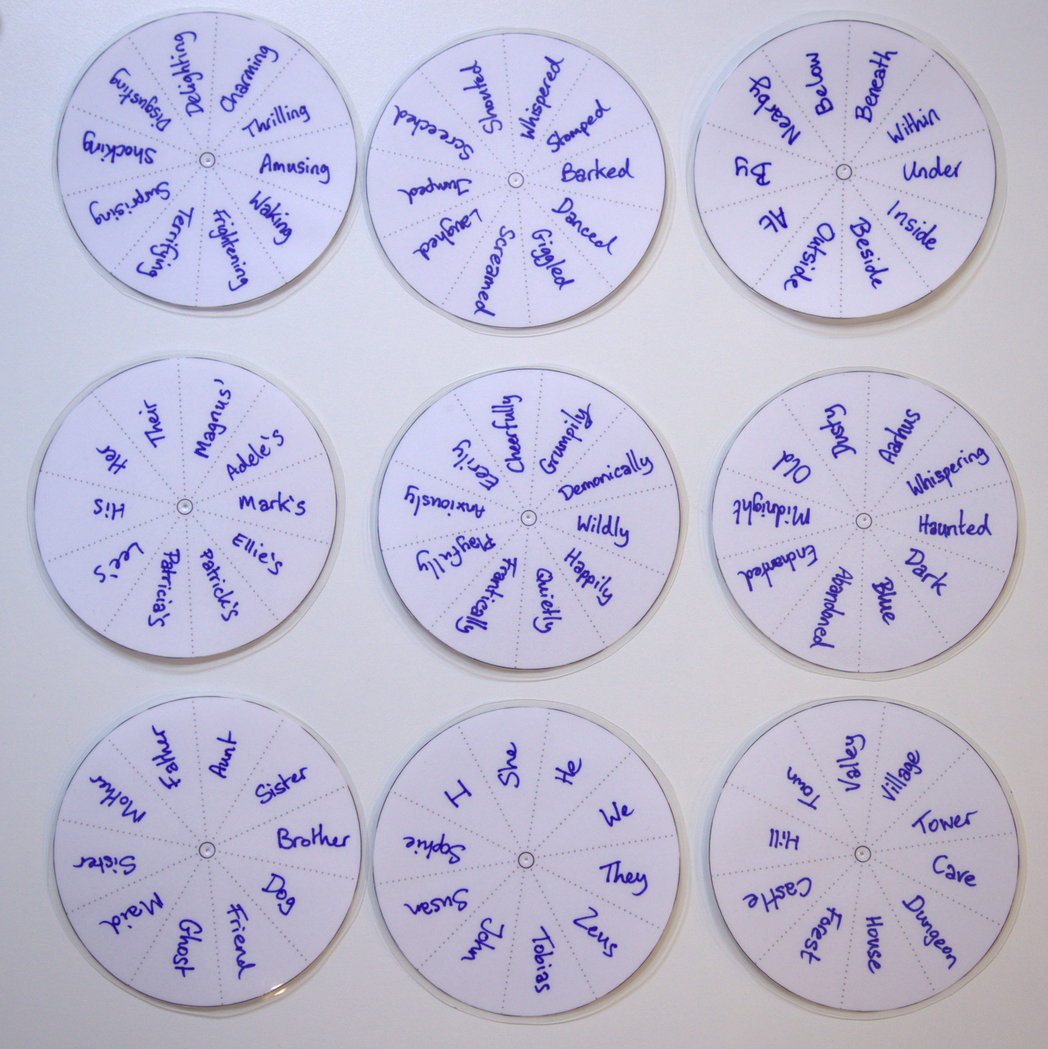
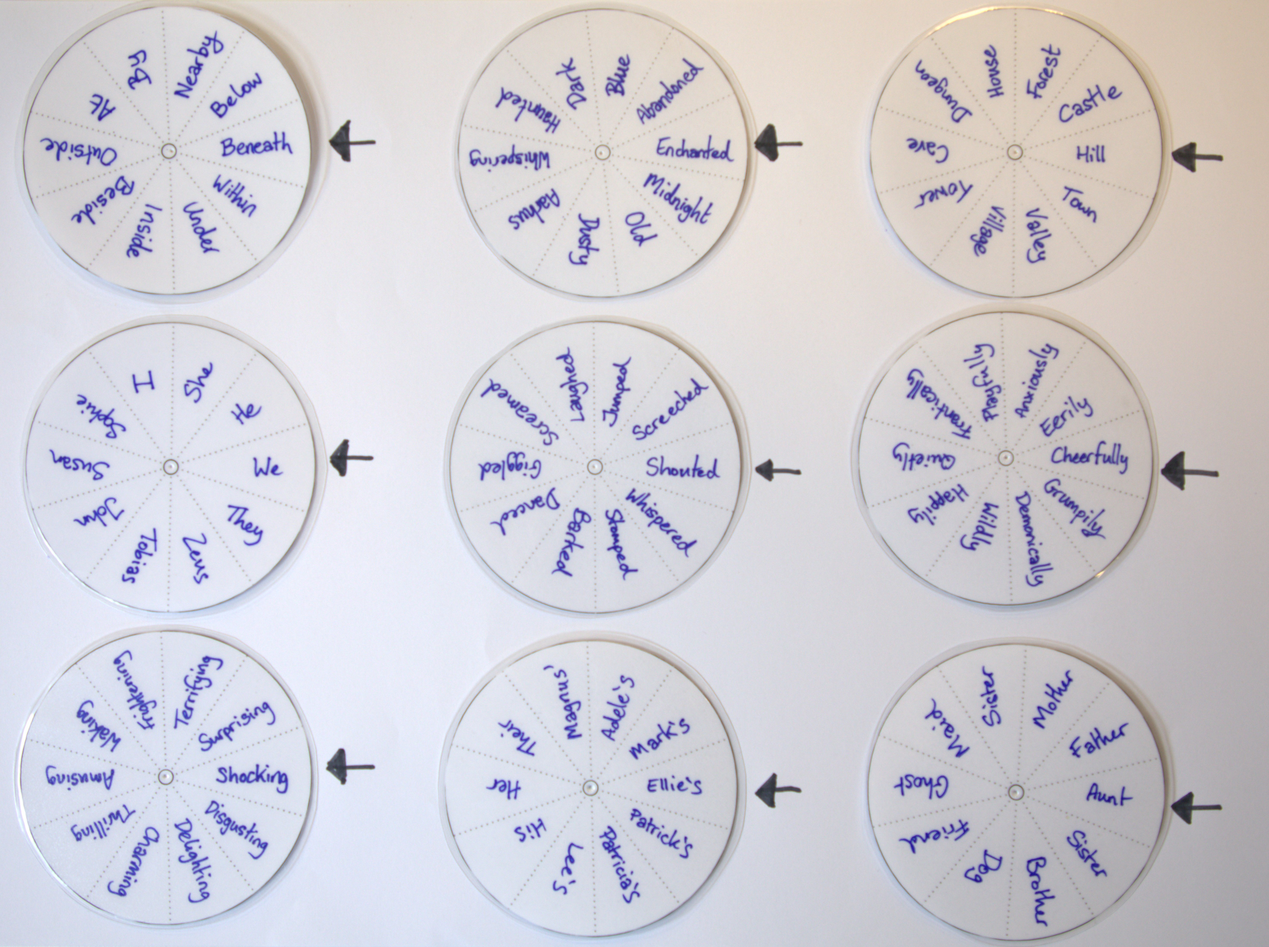
Final texts and new Once Upon a billion image

diff --git a/src/i18n/index.js b/src/i18n/index.js
@@ -220,15 +220,18 @@ const messages = {
       "Minimum number of times a word should appear to be included",
     hourOfAILink: "Hour of AI",
     hourOfAI: {
-      hourOfAITitle: "Build your own language model from paper",
+      hourOfAITitle: "Build Your Own Language Model From Paper",
+      surveyTitle: "These activities were developed with love through research",
+      surveyText:
+        "... And it would be a massive help to us in continuing our research if you would be interested in taking a short questionnaire!<ul><li>Link to teacher pre-lesson questionnaire (5 mins)</li><li>Link to teacher post-lesson questionnaire (5 mins)</li><li>Link to a questionnaire you can share with students pre-lesson (2 mins)</li><li>Link to a questionnaire you can share with students post-lesson (2 mins)</li></ul>",
       ages: "Ages 10-16",
       teachingPoint: "Teaching points",
       acks: 'These activities are developed at <a href="https://cctd.au.dk" target="_blank">the Center for Computational Thinking and Design at Aarhus University</a> in collaboration with the <a href="https://www.tekforstaa.dk" target="_blank">Research Center for Technology Comprehension</a>, contact us here: <a href="mailto:luke@cs.au.dk">luke@cs.au.dk</a><br><br><a href="https://hourofai.org" target="_blank">The Hour of AI</a> is a global campaign from <a href="https://csforall.org" target="_blank">CSforALL</a>, in collaboration with <a href="https://code.org" target="_blank">Code.org</a>. Take part in <a href="https://csedweek.org" target="_blank">CS Ed Week</a>!',
-      questions: "Questions to ask students",
+      questions: "Questions you can ask students",
       intro:
-        "<b>Invite your students to build their own sentence generator from paper. Students get a hands-on experience seeing how text becomes data and how this data becomes an AI model. Through this, they should learn that AI systems use data to make decisions or predictions, in this case generating text by predicting the words in a sentence</b><br><br>In this lesson the students start by writing sentences about themselves, in groups collect their sentences to datasets, and from these datasets create a simple sentence generation model. This is a very open exercise, where you can let the students explore and reflect on the steps independently, and we also provide some reflection questions to help you structure some reflections on how computers can generate text. With this lesson we aim to give them a hands-on experience and sense that they can be part of creating technology like text generation systems, through a simple paper-based example. A lesson plan summarising the content on this page is available here: [TODO], or alternatively you can print this page.",
+        '<b>Invite your students to build their own sentence generator from paper. Students get a hands-on experience seeing how text becomes data and how this data becomes an AI model. Through this, your students learn that AI systems use data to make decisions or predictions, in this case generating text by predicting the words in a sentence</b><br><br>In this lesson the students start by writing sentences about themselves, in groups collect their sentences to datasets, and from these datasets create a simple sentence generation model. This is a very open exercise, where you can let the students explore and reflect on the steps independently, and we also provide reflection questions to help you structure discussion on how computers can generate text. With this lesson we aim to give them a hands-on experience and sense that they can be part of creating technology like text generation systems, through a simple paper-based example.<br><br>We present the activity in steps which the students should follow, alongside teaching points and tips for the step, and questions you can ask to get students to reflect. <a href="https://docs.google.com/document/d/1XDV2fF8GeeJqHnkGKSHzRrmT0tnbB4MxfIw0a7i4720/edit?usp=sharing" target="_blank">A lesson plan summarising the content on this page is available here</a>, or alternatively you can print this page.',
       whatYouNeed:
-        'Before getting started, read the activity steps below. You can do this exercise with only blank pieces of paper! But, we have provided <a href="https://drive.google.com/file/d/1g0yrUjSlLW2x-ilAPSOxN2mFeggisYWh/view?usp=sharing" target="_blank">a template for the students to write their sentences on in step 1</a> [Print one copy per 12 students]; and <a href="https://drive.google.com/file/d/1GyLYVv1v0kkl8hay1X_GdnYpRvv-SrZ0/view?usp=sharing" target="_blank">a template for paper pie charts to visualise their dataset in the optional step 5</a> [Print one copy per group]. When they should write the sentences down in step 6, you could make a worksheet for reflection either on the model, or some subject -  here are examples/inspiration for <a href="https://drive.google.com/file/d/1Dw8oK5EXz3JpQ-2ek3JcNKnSJkFoo3zh/view?usp=sharing" target="_blank">language subjects</a> and <a href="https://drive.google.com/file/d/1gw5-MWAP-Z_92y9njckY4etJjCqsEiBL/view?usp=sharing" target="_blank">mathematics</a>.',
+        'Before getting started, read the activity steps below. We have provided:<ul><li>A template for the students to write their sentences on in Step 1 [<a href="https://drive.google.com/file/d/1g0yrUjSlLW2x-ilAPSOxN2mFeggisYWh/view?usp=sharing" target="_blank">Print and cut one copy per 12 students</a>]</li><li>A template for paper pie charts to visualise their dataset in the optional Step 5 [<a href="https://drive.google.com/file/d/1GyLYVv1v0kkl8hay1X_GdnYpRvv-SrZ0/view?usp=sharing" target="_blank">Print one copy per group</a>]</li></ul>When they should write down their sentences in step 6, you could choose to make a worksheet for reflection either on the model, or on the sentences from a subject perspective. Here are examples/inspiration for <a href="https://drive.google.com/file/d/1Dw8oK5EXz3JpQ-2ek3JcNKnSJkFoo3zh/view?usp=sharing" target="_blank">language subjects</a> and <a href="https://drive.google.com/file/d/1gw5-MWAP-Z_92y9njckY4etJjCqsEiBL/view?usp=sharing" target="_blank">mathematics</a>.<br><br>The templates above are recommended but optional - you can do this exercise with only blank pieces of paper!',
       step: "Step",
       learningOutcomes:
         "At the end of this lesson, students should be able to reflect on how text can become data (ripping it, creating piles), and how this data can be used to create models which can generate/predict new data. It may be that they understand language models as probabilistic systems, which do not generate *the* answer, but randomly generate *an* answer based on existing input and data.",
@@ -236,7 +239,7 @@ const messages = {
         {
           text: 'Each student writes a four-word sentence about themselves on a piece of paper. If using <a href="https://drive.google.com/file/d/1g0yrUjSlLW2x-ilAPSOxN2mFeggisYWh/view?usp=sharing" target="_blank">the template</a>, students should write the first word in the red box.',
           teachingPoint:
-            "The later steps where we create a model based on this data, in our experience, work best if the sentences end up quite similar, so we ideally want them to be simply structured and using similar words. This happens somewhat automatically when we ask them to write about themselves (the majority write I as the first word and follow this with a verb such as love). You can also further influence the similarities of the sentences, by giving examples: 'I love playing football' and 'I like to swim', or you could specify that the stucture should be <noun> <verb> <adjective> <noun>, but this is not necessary.",
+            "Steps 3-5 work best if the sentences end up quite similar, so we ideally want them to be simply structured and using similar words.<br><br>This happens somewhat automatically when we ask them to write about themselves (the majority write I as the first word and follow this with a verb such as love).<br><br>You can also further influence the similarities of the sentences, by giving examples: 'I love playing football' and 'I like to swim', or you could specify that the stucture should be noun-verb-adjective-noun, but this is not necessary.",
           questions: "",
           imageLink: "images/write-slip.jpg",
         },
@@ -244,7 +247,7 @@ const messages = {
           text: "The sentence should be ripped into individual words.",
           teachingPoint: "",
           questions:
-            "<ul><li><b>Could a computer split words up like we can?</b> Usually we train a model to figure this out, but a simple method can be to split sentences by spaces and punctuation.</li><li><b>What makes something a word? Should “football” be ripped into two words or is it one?</b> This can be interesting to discuss for language teachers, as it hits something fundamental in syntax and word origins and can be different in different languages.</li></ul>",
+            "<ul><li><b>Could a computer split words up like we can?</b> Sometimes, but they can't do it naturally like we learn to do! Usually we train a machine-learning model to figure this out, but a simple method can be to split sentences by spaces and punctuation.</li><li><b>What makes something a word? Should “football” be ripped into two words or is it one?</b> This can be interesting to discuss for language teachers, as it hits something fundamental in syntax and word origins and can be different in different languages. It helps to illustrate why text is complex data and why other fields can help programmers in designing text generation systems.</li></ul>",
           imageLink: "images/ripped-slip.jpg",
         },
         {
@@ -252,7 +255,7 @@ const messages = {
           teachingPoint:
             "4-5 students is an ideal group size. If the groups are smaller, students can also write multiple sentences so that there are still 4-5 sentences in their group.<br> Here we want to encourage the students to look for patterns and be curious, there are no wrong answers! ",
           questions:
-            "<ul><li>What is the most common word? This is most likely 'I' based on the task, but there can also be common verbs or prepositions</li><li>Could someone put the sentences back together if they wanted to? This is a key point, something has been lost in the process of ripping the sentences up, so we often can't know how to put the sentences back together (if we ignore handwriting)</li><li>Are there patterns in the piles? For example, we might expect verbs in the second pile, and some mix of nouns, activities, and prepositions in the third and fourth</li><li>Would we know this is people saying something about themselves? Often the answer is yes, as there are words like names, I, and descriptive words or hobbies</li><li>Are these sentences using positive or negative words? Hopefully we get happy sentences, but again we might make the point that this can be tough to know, because we have lost some of the context (e.g. 'I am not happy' would give us the very positive word 'happy' but we don't know it was followed by NOT</li></ul>",
+            "<ul><li><b>What is the most common word?</b> This is most likely 'I' based on the task, but there can also be common verbs or prepositions</li><li><b>Could someone put the sentences back together if they wanted to?</b> This is a key point, something has been lost in the process of ripping the sentences up, so we often can't know how to put the sentences back together (if we ignore handwriting)</li><li><b>Are there patterns in the piles?</b> For example, we might expect verbs in the second pile, and some mix of nouns, activities, and prepositions in the third and fourth</li><li><b>Would we know this is people saying something about themselves?</b> Often the answer is yes, as there are words like names, I, and descriptive words or hobbies</li><li><b>Are these sentences using positive or negative words?</b> Hopefully we get happy sentences, but again we might make the point that this can be tough to know, because we have lost some of the context (e.g. 'I am not happy' would give us the very positive word 'happy' but we don't know it was followed by NOT</li></ul>",
           imageLink: "images/pooled-slip.jpg",
         },
         {
@@ -263,32 +266,32 @@ const messages = {
           imageLink: "images/pool-generation.jpg",
         },
         {
-          text: 'Optionally, each pile can be visualised with a pie chart, which can be spun like a "wheel of fortune" sequentially to generate a new sentence',
+          text: 'Optionally, each pile can be visualised with a pie chart, with the size of the slices representing the frequency of the words. This can be spun like a "wheel of fortune" sequentially to generate a new sentence',
           teachingPoint:
-            '<a href="https://drive.google.com/file/d/1GyLYVv1v0kkl8hay1X_GdnYpRvv-SrZ0/view?usp=sharing" target="_blank">There is a printout available so that the students can draw and create their own pie charts here</a>. To “spin” the pie charts, we typically put a paper clip in the centre, hold it still with a pen, and flick it so that it spins around. You can also just spin them on a table or use a thumbtack.',
+            'This is where you should use <a href="https://drive.google.com/file/d/1GyLYVv1v0kkl8hay1X_GdnYpRvv-SrZ0/view?usp=sharing" target="_blank">the printout</a> so that the students can draw and create their own pie charts. To “spin” the pie charts, we typically put a paper clip in the centre, hold it still with a pen, and flick it so that it spins around. You can also just spin them on a table or use a thumbtack.',
           questions: "",
           imageLink: "images/pies.jpg",
         },
         {
           text: "Using either the text generation method from step 5 (pulling a random word) or step 6 (spinning the pie charts) students should generate and write down 5-10 new sentences.",
           teachingPoint:
-            'Remember to walk around and observe what the students do - are there interesting sentences or mistakes? These can be valuable to bring up in reflecting together as a class later. They can write their sentences down anywhere, but we also have example templates for how you might make it more subject relevant for <a href="https://drive.google.com/file/d/1Dw8oK5EXz3JpQ-2ek3JcNKnSJkFoo3zh/view?usp=sharing" target="_blank">language subjects</a> and <a href="https://drive.google.com/file/d/1gw5-MWAP-Z_92y9njckY4etJjCqsEiBL/view?usp=sharing" target="_blank">mathematics</a>.',
+            'Remember to walk around and observe what the students do - are there interesting sentences or mistakes? These can be valuable to bring up in reflecting together as a class later.<br><br>They can write their sentences down anywhere, but we also have example templates for how you might make it more subject relevant for <a href="https://drive.google.com/file/d/1Dw8oK5EXz3JpQ-2ek3JcNKnSJkFoo3zh/view?usp=sharing" target="_blank">language subjects</a> and <a href="https://drive.google.com/file/d/1gw5-MWAP-Z_92y9njckY4etJjCqsEiBL/view?usp=sharing" target="_blank">mathematics</a>.',
           questions:
-            "<ul><li>What was the most likely sentence? Did you generate it? Sometimes this won't happen - we are dealing with trials here rather than probability directly</li><li>Who got the funniest/silliest/most interesting sentence?</li><li>Would a person make the same mistakes as this model? The answer is probably not, because as people we understand relationships between words and grammar, but this model has no way to understand that, it only sees words and their positions in the sentence</li></ul>",
+            "<ul><li><b>What was the most likely sentence? Did you generate it?</b> Sometimes this won't happen - we are dealing with trials here rather than probability directly</li><li><b>Who got the funniest/silliest/most interesting sentence?</b></li><li><b>Would a person make the same mistakes as this model?</b> The answer is probably not, because as people we understand relationships between words and grammar, but this model has no way to understand that, it only sees words and their positions in the sentence</li></ul>",
           imageLink: "images/spinning-wheels.jpg",
         },
         {
           text: "Finally, the groups can reflect on their personal small language model",
           teachingPoint:
-            'Sample questions are provided below. In general, we want to engage them as designers - what is a "good" language model. Is a model with one word per position good because it will always make sense? Or is a good model interesting, even though it means sometimes it may not make complete sense?',
+            'We want to engage them as designers - what is a "good" language model. Is a model with one word per position good because it will always make sense? Or is a good model interesting, even though it means sometimes it may not make complete sense? Sample questions are provided below.',
           questions:
-            '<ul><li>When will this model work well? It will work well with quality data for this specific domain. If the question was "Explain what science is", our model would not work as well</li><li>How many of the 5-10 sentences you generated made sense?</li><li>How could we make the model better? One way would be to increase the probability that the sentences make sense. We could collect more data, make some rules for what kinds of words come after each other, or we limit the domain even more than "Something about yourself" to for example how old you are</li></ul>',
+            '<ul><li><b>When will this model work well?</b> It should work well with quality data for this specific domain. If the question was "Explain what science is" or our sentences were random/incorrect, our model would not work as well</li><li><b>How many of the 5-10 sentences you generated made sense?</b></li><li><b>How could we make the model better?</b> One way would be to increase the probability that the sentences make sense. We could collect more data, make some rules for what kinds of words come after each other, or we limit the domain even more than "Something about yourself" to for example how old you are</li></ul>',
           imageLink: "images/create-new.jpg",
         },
         {
-          text: "[Optional extensions] Redesigning new, better piles/pie charts or making a model for a specific purpose:",
+          text: "[Optional] Extend the activity. Ask students to design new, better piles/pie charts or make a model for a specific purpose. Here is an example of our “once upon a billion” model which is an extension of this concept. With 9 wheels of 10 words, there are a billion possible stories to be generated here.",
           teachingPoint:
-            "This can be a fun final step in the activity - give them extra wheels or pieces of paper and ask them to make wheels, piles, or rules that result in a better text generation model (better can be many things - more creative, better grammar, more sentences that are true - you can either define this for the students or ask them afterwards what they took better to mean). Here is an example of our “once upon a billion” model which is an extension of this concept. With 9 wheels of 10 words, there are a billion possible stories to be generated here.",
+            "This can be a fun final step in the activity - give them extra wheels or pieces of paper and ask them to make wheels, piles, or rules that result in a better text generation model.<br><br>Better can mean many things - more creative, better grammar, more sentences that are true. You can either define this for the students or ask them afterwards what they took better to mean.",
           questions: "",
           imageLink: "images/once-upon-a-billion.jpg",
         },

diff --git a/src/views/HourOfAI.vue b/src/views/HourOfAI.vue
@@ -40,6 +40,13 @@
     </template>
   </Card>
 
+  <Card class="my-3 border-solid border-primary bg-primary-reverse">
+    <template #title>{{ $t("hourOfAI.surveyTitle") }}</template>
+    <template #content>
+      <div v-html="$t(`hourOfAI.surveyText`)"></div>
+    </template>
+  </Card>
+
   <Fieldset legend="Steps" :toggleable="true" class="mb-3 surface-100">
     <div class="flex flex-row flex-wrap w-full h-full">
       <div
